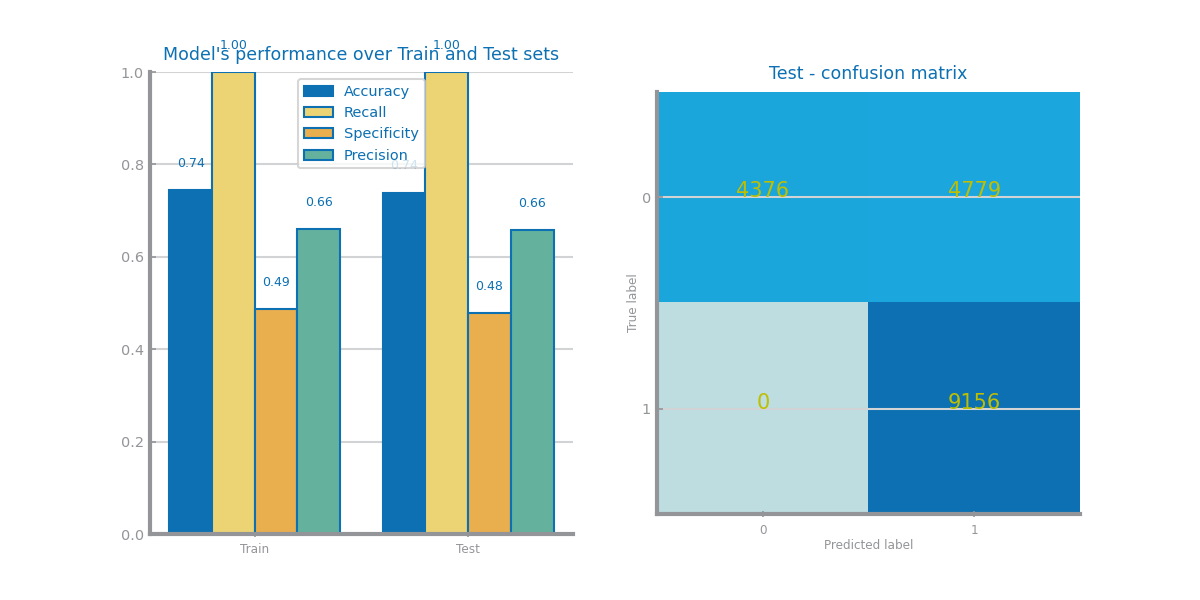
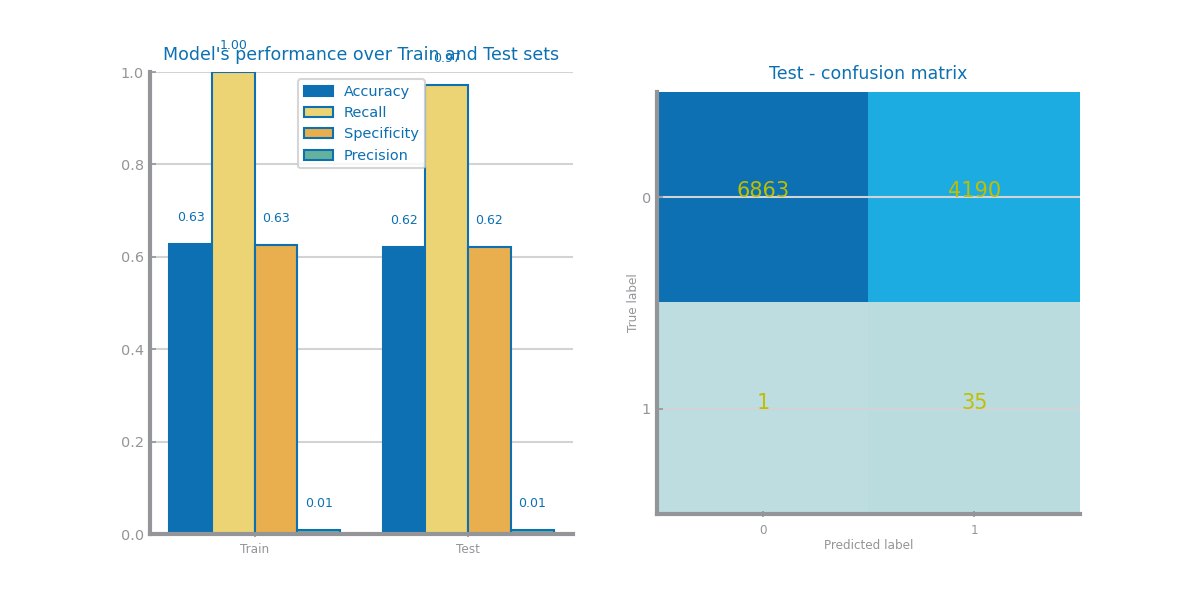
Update NB images

diff --git a/lab04_naive_bayes_and_balancing/set1_nb_study.py b/lab04_naive_bayes_and_balancing/set1_nb_study.py
@@ -5,11 +5,11 @@ from sklearn.naive_bayes import GaussianNB
 from ds_charts import plot_evaluation_results, bar_chart
 
 file_tag = 'set1'
-filename = 'lab04_naive_bayes_and_balancing/ew_data/set1'
+filename = 'lab03_knn_and_scaling/ew_data/set1'
 target = 'PERSON_INJURY'
 
 # train: DataFrame = read_csv(f'{filename}_train.csv')
-train: DataFrame = read_csv(f'{filename}_train_scaled.csv')
+train: DataFrame = read_csv(f'lab04_naive_bayes_and_balancing/ew_data/set1_over_scaled.csv')
 trnY: ndarray = train.pop(target).values
 trnX: ndarray = train.values
 labels = unique(trnY)
@@ -26,14 +26,14 @@ prd_trn = clf.predict(trnX)
 prd_tst = clf.predict(tstX)
 plot_evaluation_results(labels, trnY, prd_trn, tstY, prd_tst)
 # savefig(f'lab04_naive_bayes_and_balancing/images/{file_tag}/{file_tag}_nb_best.png')
-savefig(f'lab04_naive_bayes_and_balancing/images/{file_tag}/{file_tag}_nb_best_scaled.png')
+savefig(f'lab04_naive_bayes_and_balancing/images/{file_tag}/{file_tag}_nb_best_over_scaled.png')
 show()
 
 from sklearn.naive_bayes import GaussianNB, MultinomialNB, BernoulliNB, CategoricalNB
 from sklearn.metrics import accuracy_score
 
 estimators = {'GaussianNB': GaussianNB(),
-            #   'MultinomialNB': MultinomialNB(),
+              # 'MultinomialNB': MultinomialNB(),
               'BernoulliNB': BernoulliNB()
               #'CategoricalNB': CategoricalNB
               }
@@ -49,5 +49,5 @@ for clf in estimators:
 figure()
 bar_chart(xvalues, yvalues, title='Comparison of Naive Bayes Models', ylabel='accuracy', percentage=True)
 # savefig(f'lab04_naive_bayes_and_balancing/images/{file_tag}/{file_tag}_nb_study.png')
-savefig(f'lab04_naive_bayes_and_balancing/images/{file_tag}/{file_tag}_nb_study_scaled.png')
+savefig(f'lab04_naive_bayes_and_balancing/images/{file_tag}/{file_tag}_nb_study_over_scaled.png')
 show()
